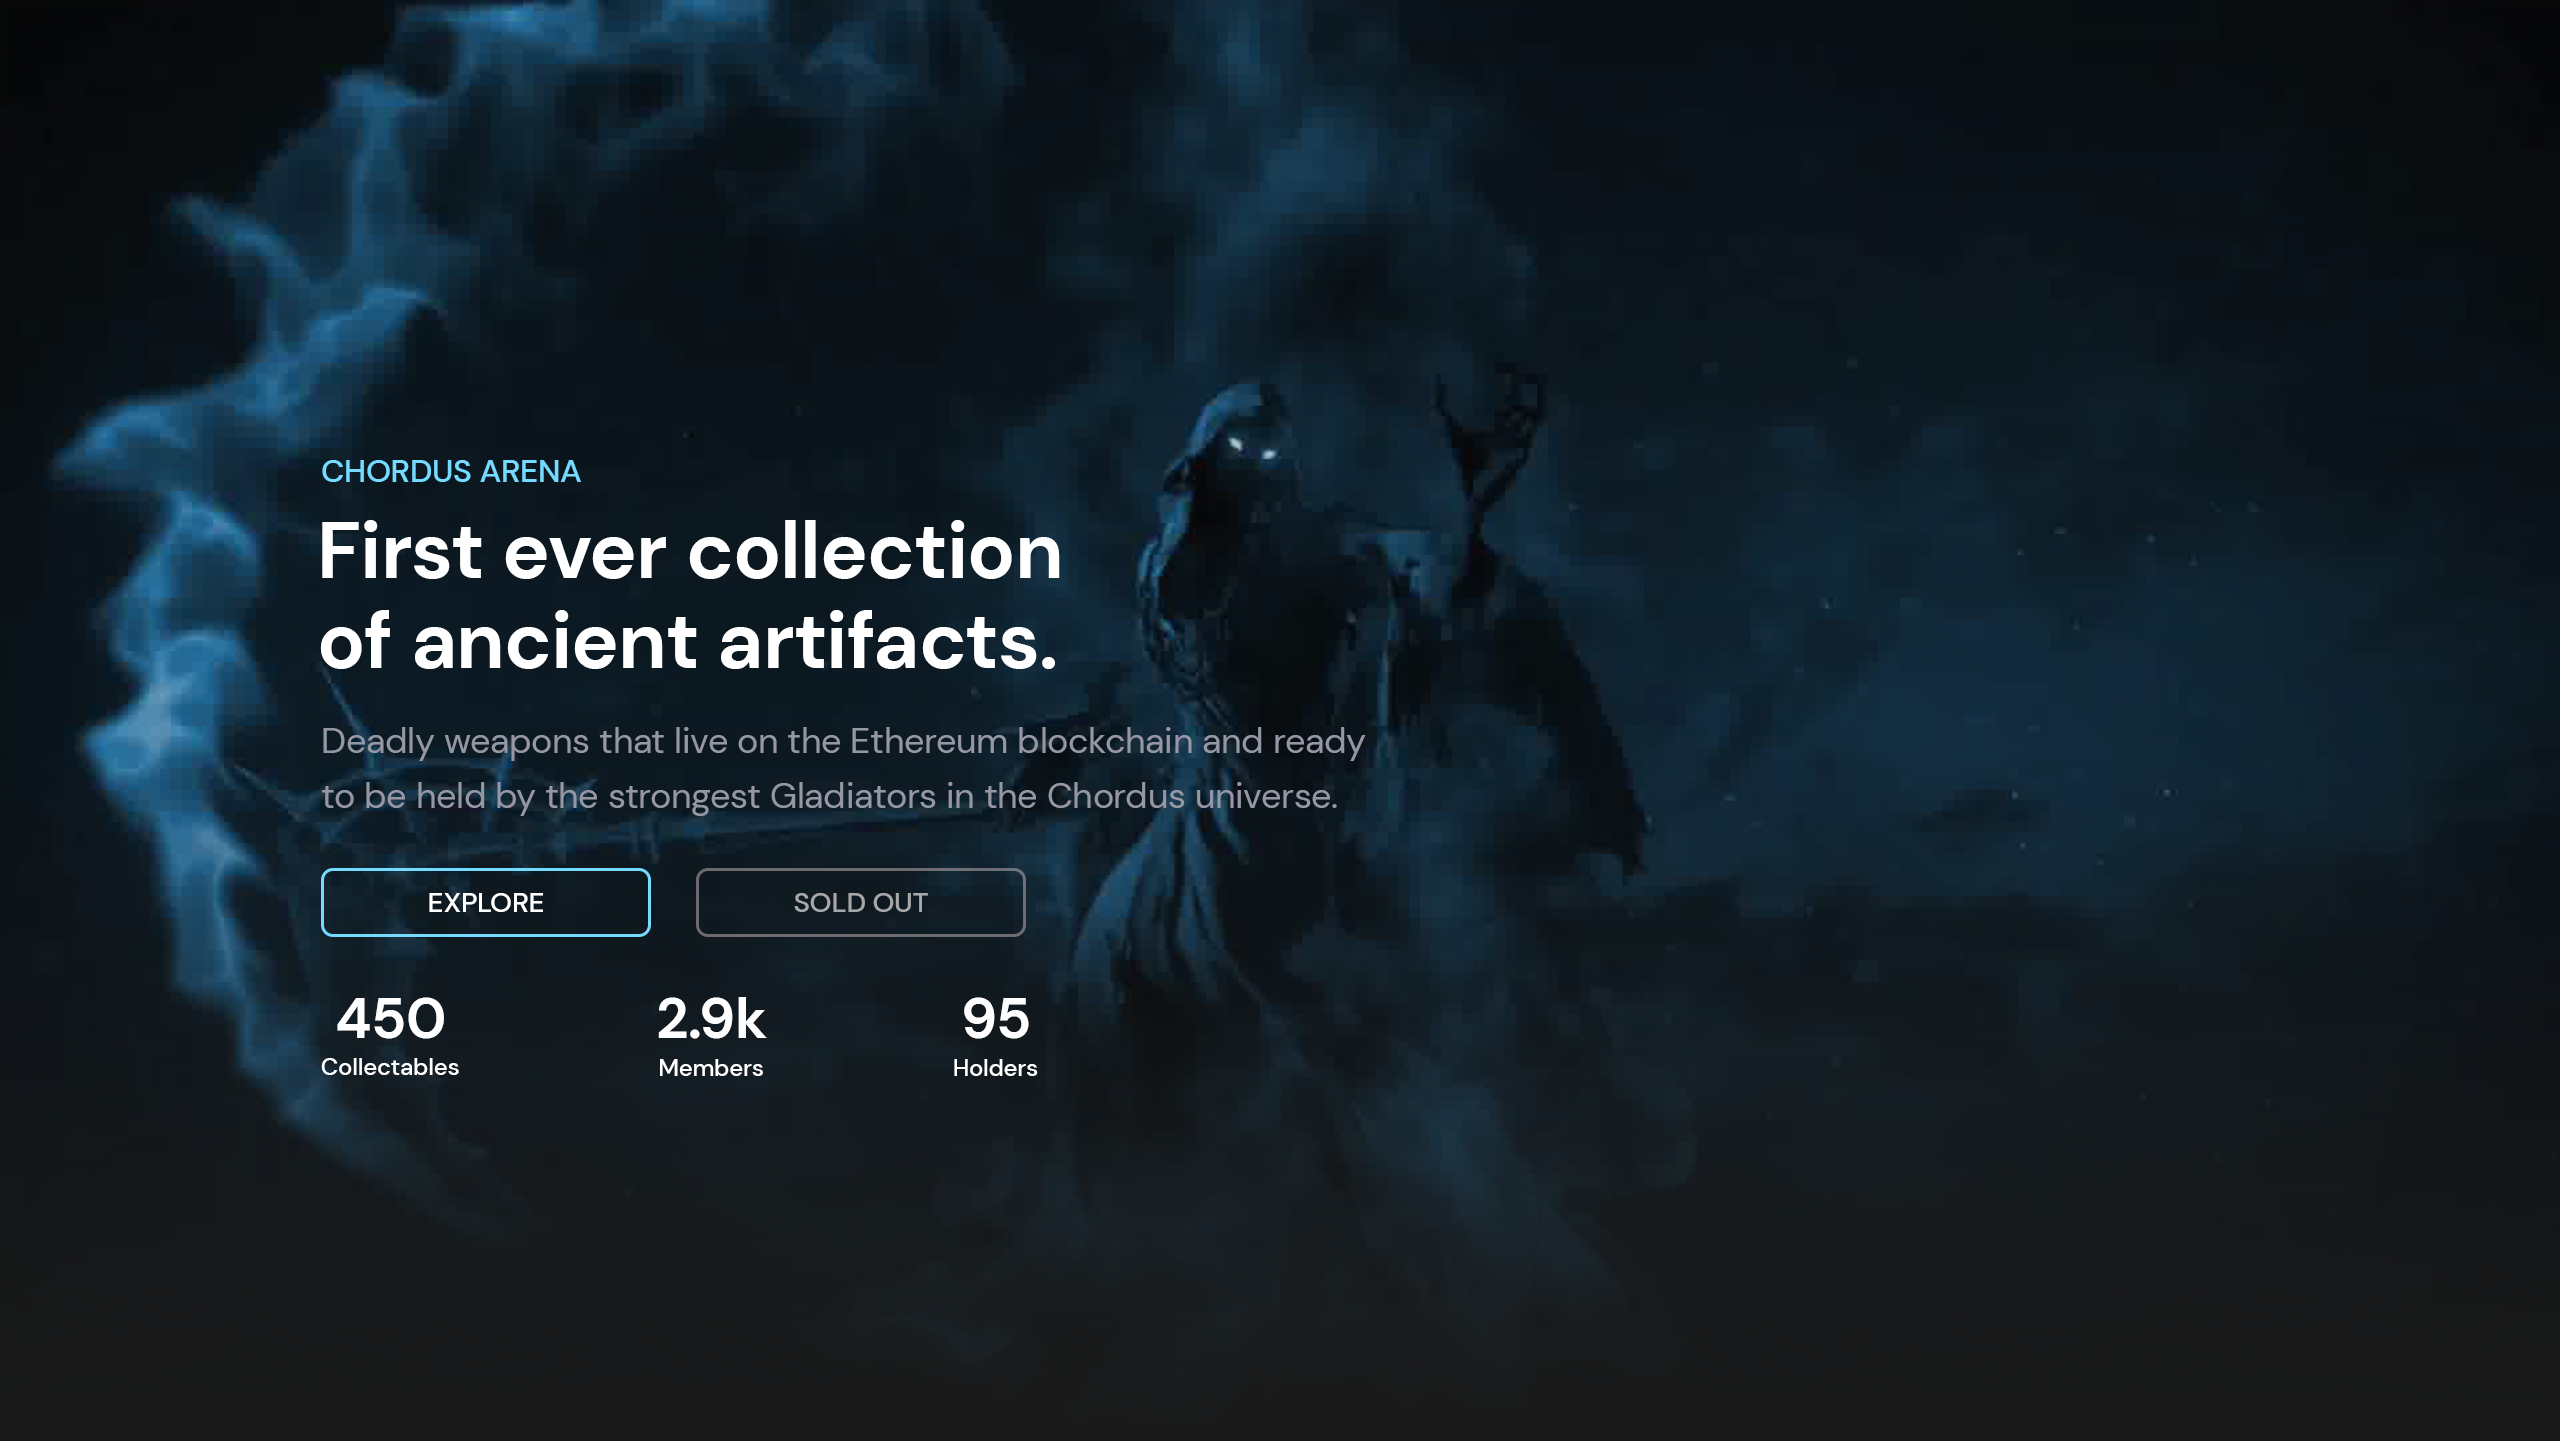
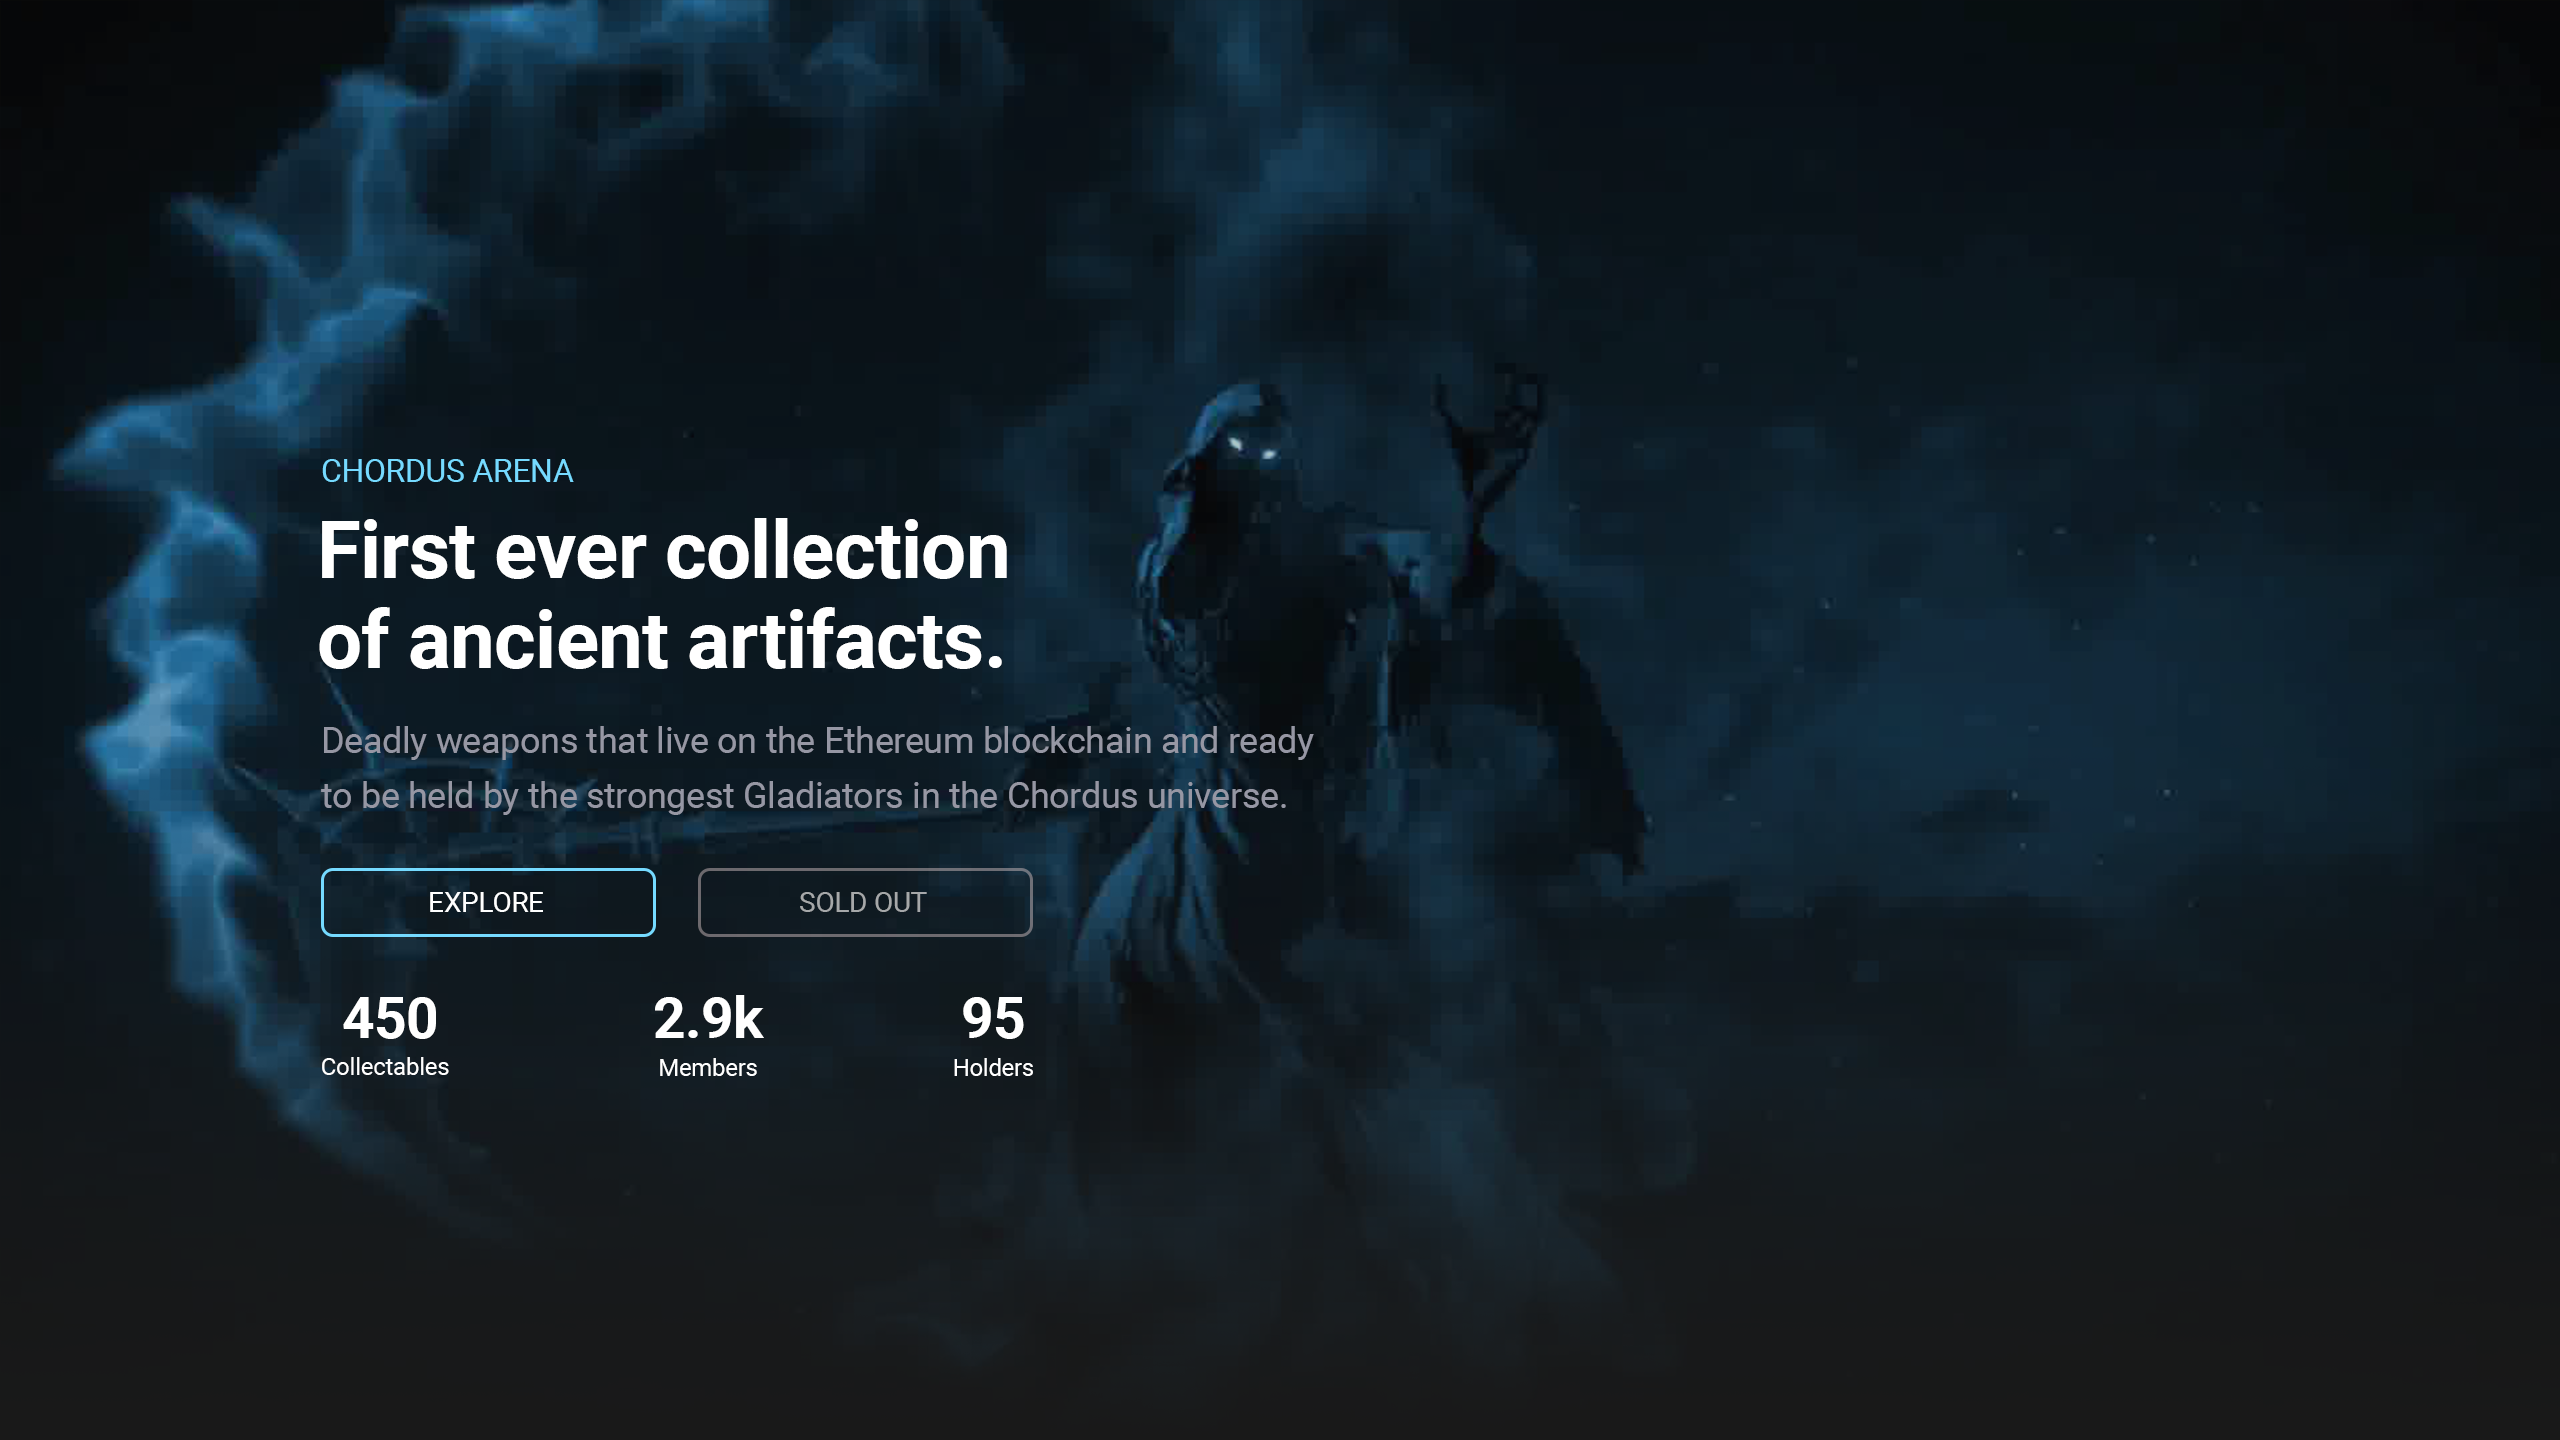
Create game, team and footer sections
- Added icons for 'Play and earn' and 'Turn based strategy'.

- Updated the social share image to include the new fonts.

diff --git a/src/containers/GameInfo/data.ts b/src/containers/GameInfo/data.ts
@@ -3,18 +3,20 @@ import { ReactComponent as CPUIcon } from 'icons/game-cpu.svg';
 import { ReactComponent as MineIcon } from 'icons/game-mine.svg';
 import { ReactComponent as SafeIcon } from 'icons/game-safe.svg';
 import { ReactComponent as ShieldIcon } from 'icons/game-shield.svg';
+import { ReactComponent as ChessIcon } from 'icons/game-strategy.svg';
+import { ReactComponent as WalletIcon } from 'icons/game-wallet.svg';
 
 export const gameInfoItems: InfoGridItem[] = [
   {
     id: 'play-earn',
-    Icon: ShieldIcon,
+    Icon: WalletIcon,
     title: 'Play and earn',
     text: 'Lorem ipsum dolor sit amet, consectetur adipiscing elit, sed do eiusmod tempor incididunt ut labore et doloreus magna aliqua.',
   },
 
   {
     id: 'turn-based',
-    Icon: ShieldIcon,
+    Icon: ChessIcon,
     title: 'Turn based strategy',
     text: 'Lorem ipsum dolor sit amet, consectetur adipiscing elit, sed do eiusmod tempor incididunt ut labore et doloreus magna aliqua.',
   },
